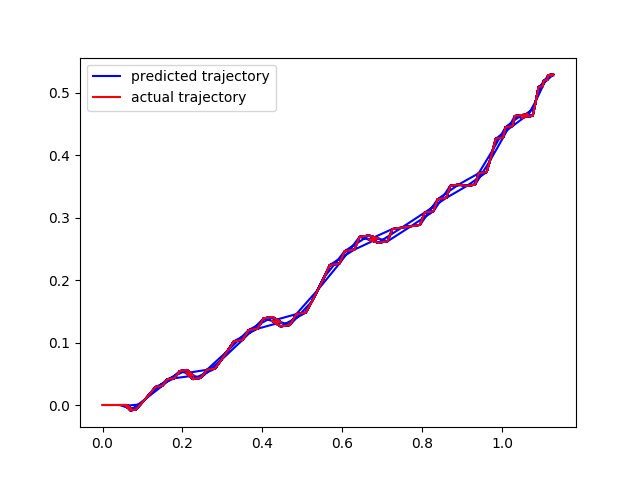
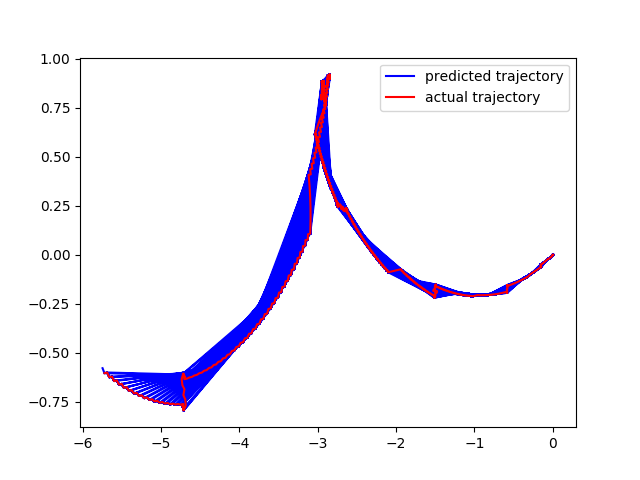
code refractored

diff --git a/simulation.py b/simulation.py
@@ -14,13 +14,13 @@ p_true = [0.5, 0.5]
 
 p = [0.01, 0.01]
 
-dt = 0.1  # timestep
+dt = 0.01  # timestep
 
-N = 100  # simulate for N timesteps
+N = 1000  # simulate for N timesteps
 
-w = 5  # size of window
+w = 50  # size of window
 
-n = 10  # windows to visualized
+n = 200  # windows to visualized
 
 delta_f_list = []
 a_list = []
@@ -84,7 +84,8 @@ def euler(state, state_dot, dt):
 
 def main():
     # define initial state
-    state = (0, 0, 0, 0)
+
+    state = (0, 0, 0, 0)   # (x,y, psi, v)
     x = []
     y = []
 
@@ -145,26 +146,36 @@ def main():
     draw_windows(windows, predicted_windows, name='windows')
     draw_tragetory(x, y, predicted_x, predicted_y, name='tragetory')
     draw_cost_function(scoring_array, name='cost_function')
+    optimize_cost_function()
+
+def optimize_cost_function():
+    '''
+    This is function minimizes the mean square error.
+    '''
+    pass
 
 
 def draw_cost_function(scoring_array, name='cost_function'):
     scoring_array = np.array(scoring_array)
-    plt.plot(scoring_array[:,0], scoring_array[:,1], color='red')
-    plt.savefig(name)
-    plt.close()
-
-
-def draw_tragetory(x, y, x_pred, y_pred, name='tragetory'):
-    plt.plot(x_pred, y_pred, color='blue', label='predicted trajectory')
-    plt.plot(x, y, color='red', label='actual trajectory')
+    plt.plot(scoring_array[:, 0],  label='x')
+    plt.plot(scoring_array[:, 1], label='y')
+    plt.plot(scoring_array[:, 2], label='psi')
+    plt.plot(scoring_array[:, 3], label='v')
     plt.legend(loc='best')
     plt.savefig(name)
     plt.close()
 
 
-def draw_windows(windows, predicted_windows, name='windows'):
-    x_actual, y_actual, x_pred, y_pred = extract_stages(
-        windows, n, predicted_windows)
+def draw_tragetory(x, y, x_pred, y_pred, name='tragetory', actual_label='actual trajectory', pred_label='predicted trajectory'):
+    plt.plot(x_pred, y_pred, color='blue', label=pred_label)
+    plt.plot(x, y, color='red', label=actual_label)
+    plt.legend(loc='best')
+    plt.savefig(name)
+    plt.close()
+
+
+def draw_windows(windows, predicted_windows, name='windows', actual_win_label='actual windows', pred_win_label= 'predicted windows'):
+    x_actual, y_actual, x_pred, y_pred = extract_stages(windows, n, predicted_windows)
 
     x_actual_splits = [x_actual[i*w:(i+1)*w] for i in range(len(x_actual)//w)]
     y_actual_splits = [y_actual[i*w:(i+1)*w] for i in range(len(y_actual)//w)]
@@ -178,11 +189,10 @@ def draw_windows(windows, predicted_windows, name='windows'):
     for row in ax:
         for col in row:
             col.plot(x_pred_splits[i], y_pred_splits[i],
-                     color='blue', label='predicted windows')
+                     color='blue', label=pred_win_label)
             col.plot(x_actual_splits[i], y_actual_splits[i],
-                     color='red', label='actual windows')
-            # plt.text(0.5, 0.5, 'cost is {}'.format(cost_function(np.hstack((x_pred_splits[i], y_pred_splits[i])), np.hstack(
-            #     (x_actual_splits[i], y_actual_splits[i])))), horizontalalignment='center', verticalalignment='center')
+                     color='red', label=actual_win_label)
+            col.axis('equal')
             i += 1
 
     plt.legend(loc='upper center', bbox_to_anchor=(

diff --git a/guass_newton_optimizer.py b/guass_newton_optimizer.py
@@ -1,0 +1,52 @@
+import scipy
+import numpy as np
+from numpy.linalg import inv
+import math
+import scipy.misc
+
+#from matplotlib import pyplot as plt, cm, colors
+
+S = [0.038, 0.194, .425, .626, 1.253, 2.500, 3.740]
+rate = [0.050, 0.127, 0.094, 0.2122, 0.2729, 0.2665, 0.3317]
+iterations = 5
+rows = 7
+cols = 2
+
+B = np.matrix([[.9], [.2]])  # original guess for B
+print(B)
+
+Jf = np.zeros((rows, cols))  # Jacobian matrix from r
+r = np.zeros((rows, 1))  # r equations
+
+
+def model(Vmax, Km, Sval):
+    return ((Vmax * Sval) / (Km + Sval))
+
+
+def partialDerB1(B2, xi):
+    return np.round(-(xi/(B2+xi)), 10)
+
+
+def partialDerB2(B1, B2, xi):
+    return np.round(((B1*xi)/((B2+xi)*(B2+xi))), 10)
+
+
+def residual(x, y, B1, B2):
+    return (y - ((B1*x)/(B2+x)))
+
+
+#
+for _ in range(iterations):
+
+    sumOfResid = 0
+    # calculate Jr and r for this iteration.
+    for j in range(rows):
+        r[j, 0] = residual(S[j], rate[j], B[0], B[1])
+        sumOfResid += (r[j, 0] * r[j, 0])
+        Jf[j, 0] = partialDerB1(B[1], S[j])
+        Jf[j, 1] = partialDerB2(B[0], B[1], S[j])
+
+    Jft = Jf.T
+    B -= np.dot(np.dot(inv(np.dot(Jft, Jf)), Jft), r)
+
+    print(B)
